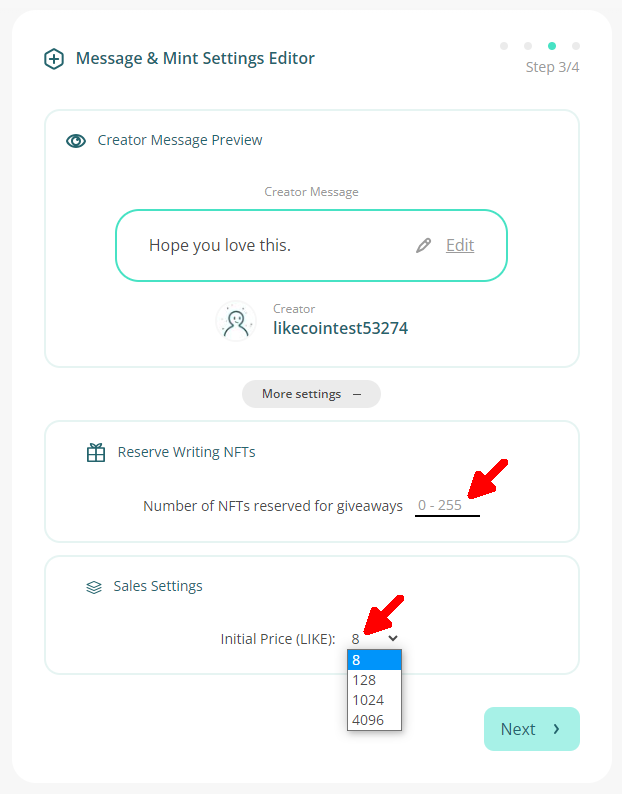
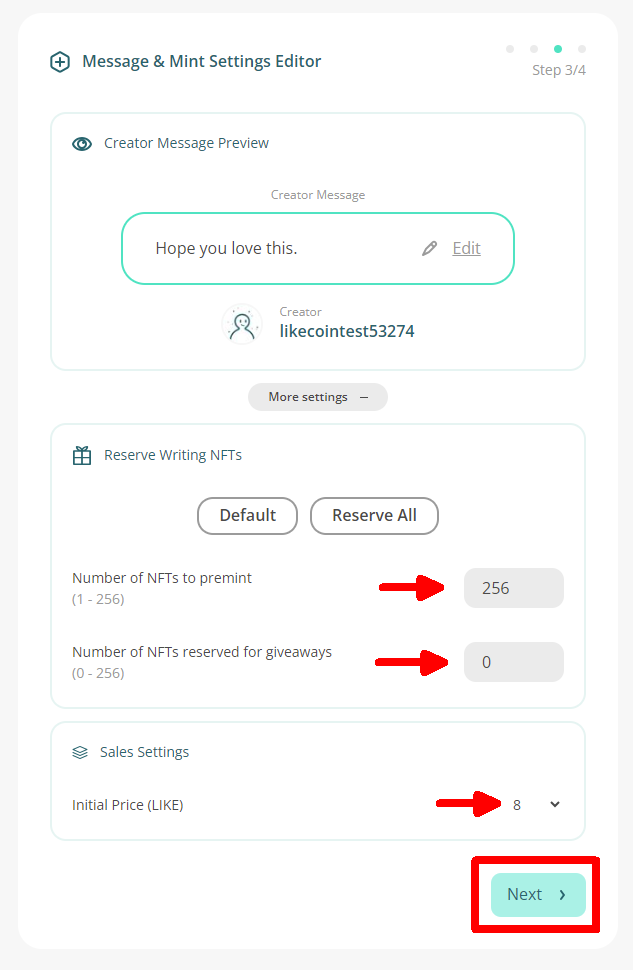
GITBOOK-4504: Mint Writing NFT

diff --git a/general-guides/writing-nft/nft-portal.md b/general-guides/writing-nft/nft-portal.md
@@ -12,7 +12,7 @@ Authors can use [**Web3Press**](../../user-guide/wordpress.md) to publish articl
 
 **Option 2**: Register text, PDF, picture, sound... into [ISCN](../decentralized-publishing/app.like.co.md) first, then paste the ISCN ID to [NFT Portal](https://app.like.co/nft/url) and publish as NFT
 
-**Option 3**: Write on the Matters website and select "Register ISCN", then select the ISCN on the ["My Publishing" tab of app.like.co](https://app.like.co/works) to publish as NFT
+**Option 3**: Write on the Matters website and select "Register ISCN", then select the ISCN on the ["My Works" tab of app.like.co](https://app.like.co/works) to publish as NFT
 
 **Option 4**: Publish NFT on [Liker.Social](https://liker.social/)
 
@@ -174,13 +174,17 @@ In addition, if you want to reserve some Writing NFT for yourself or change the 
 
 <figure><img src="../../.gitbook/assets/NFT Portal 5-3.png" alt=""><figcaption><p>Edit Writing NFT Creator message and click "More settings"</p></figcaption></figure>
 
-Enter a number between 0-255 in "Numbers of NFTs reserved for giveaways":
+In the "Number of NFTs to premint" field, you can enter the quantity of NFTs to be pre-minted, ranging from 0 to 255.
 
-Select 8, 128, 1024 or 4069 LIKE as Initial Price;&#x20;
+In the "Numbers of NFTs reserved for giveaways" field, you can reserve a quantity of NFTs (ranging from 0 to 255) for giveaways.
 
-then click "Next" to continue.
+Clicking "Reserve All" will reserve all the pre-minted NFTs and those reserved for giveaways at once.
 
-<figure><img src="../../.gitbook/assets/NFT Portal 5-4.png" alt=""><figcaption><p>Enter the number of Writing NFT to reserve and set the Initial Price</p></figcaption></figure>
+In the Sales Settings, you can set the initial price for the Writing NFTs, which can be 8, 128, 1024, or 4096 LIKE.
+
+Once done, click "Next".
+
+<figure><img src="../../.gitbook/assets/NFT Portal 5-4.png" alt=""><figcaption><p>Enter the number of Writing NFT to premint and reserve for giveaways, then set the initial price</p></figcaption></figure>
 
 ### Step 4/4: Sign
 
@@ -202,13 +206,13 @@ If your article is registered with ISCN, you can also use the [**NFT Portal**](h
 
 ### Method 1: Publish Writing NFT directly from ISCN
 
-After the article is published and regsitered with ISCN, go to "[My Publishing](https://app.like.co/works)" of [app.like.co](https://app.like.co/) to find the ISCN of the article, and click "Mint NFT" on the top right corner to directly mint the ISCN as Writing NFT, the steps are exactly the same as [Publish Writing NFT with Article URL Step 2-2/4](nft-portal.md#step-2-4-preview-nft).
+After the article is published and regsitered with ISCN, go to "[My Works](https://app.like.co/works)" of [app.like.co](https://app.like.co/) to find the ISCN of the article, and click "Mint NFT" on the top right corner to directly mint the ISCN as Writing NFT, the steps are exactly the same as [Publish Writing NFT with Article URL Step 2-2/4](nft-portal.md#step-2-4-preview-nft).
 
 <figure><img src="../../.gitbook/assets/NFT Portal ISCN 4.png" alt=""><figcaption><p>Click Mint NFT to mint ISCN into Writing NFT</p></figcaption></figure>
 
 ### Method 2: Copy the ISCN ID and publish Writing NFT
 
-Go to "[My Publishing](https://app.like.co/works)" at [app.like.co](https://app.like.co/) to find the ISCN ID of the registered article and copy it.
+Go to "[My Works](https://app.like.co/works)" at [app.like.co](https://app.like.co/) to find the ISCN ID of the registered article and copy it.
 
 <figure><img src="../../.gitbook/assets/NFT Portal ISCN 2.png" alt=""><figcaption><p>Minting ISCN ID as Writing NFT</p></figcaption></figure>
 
